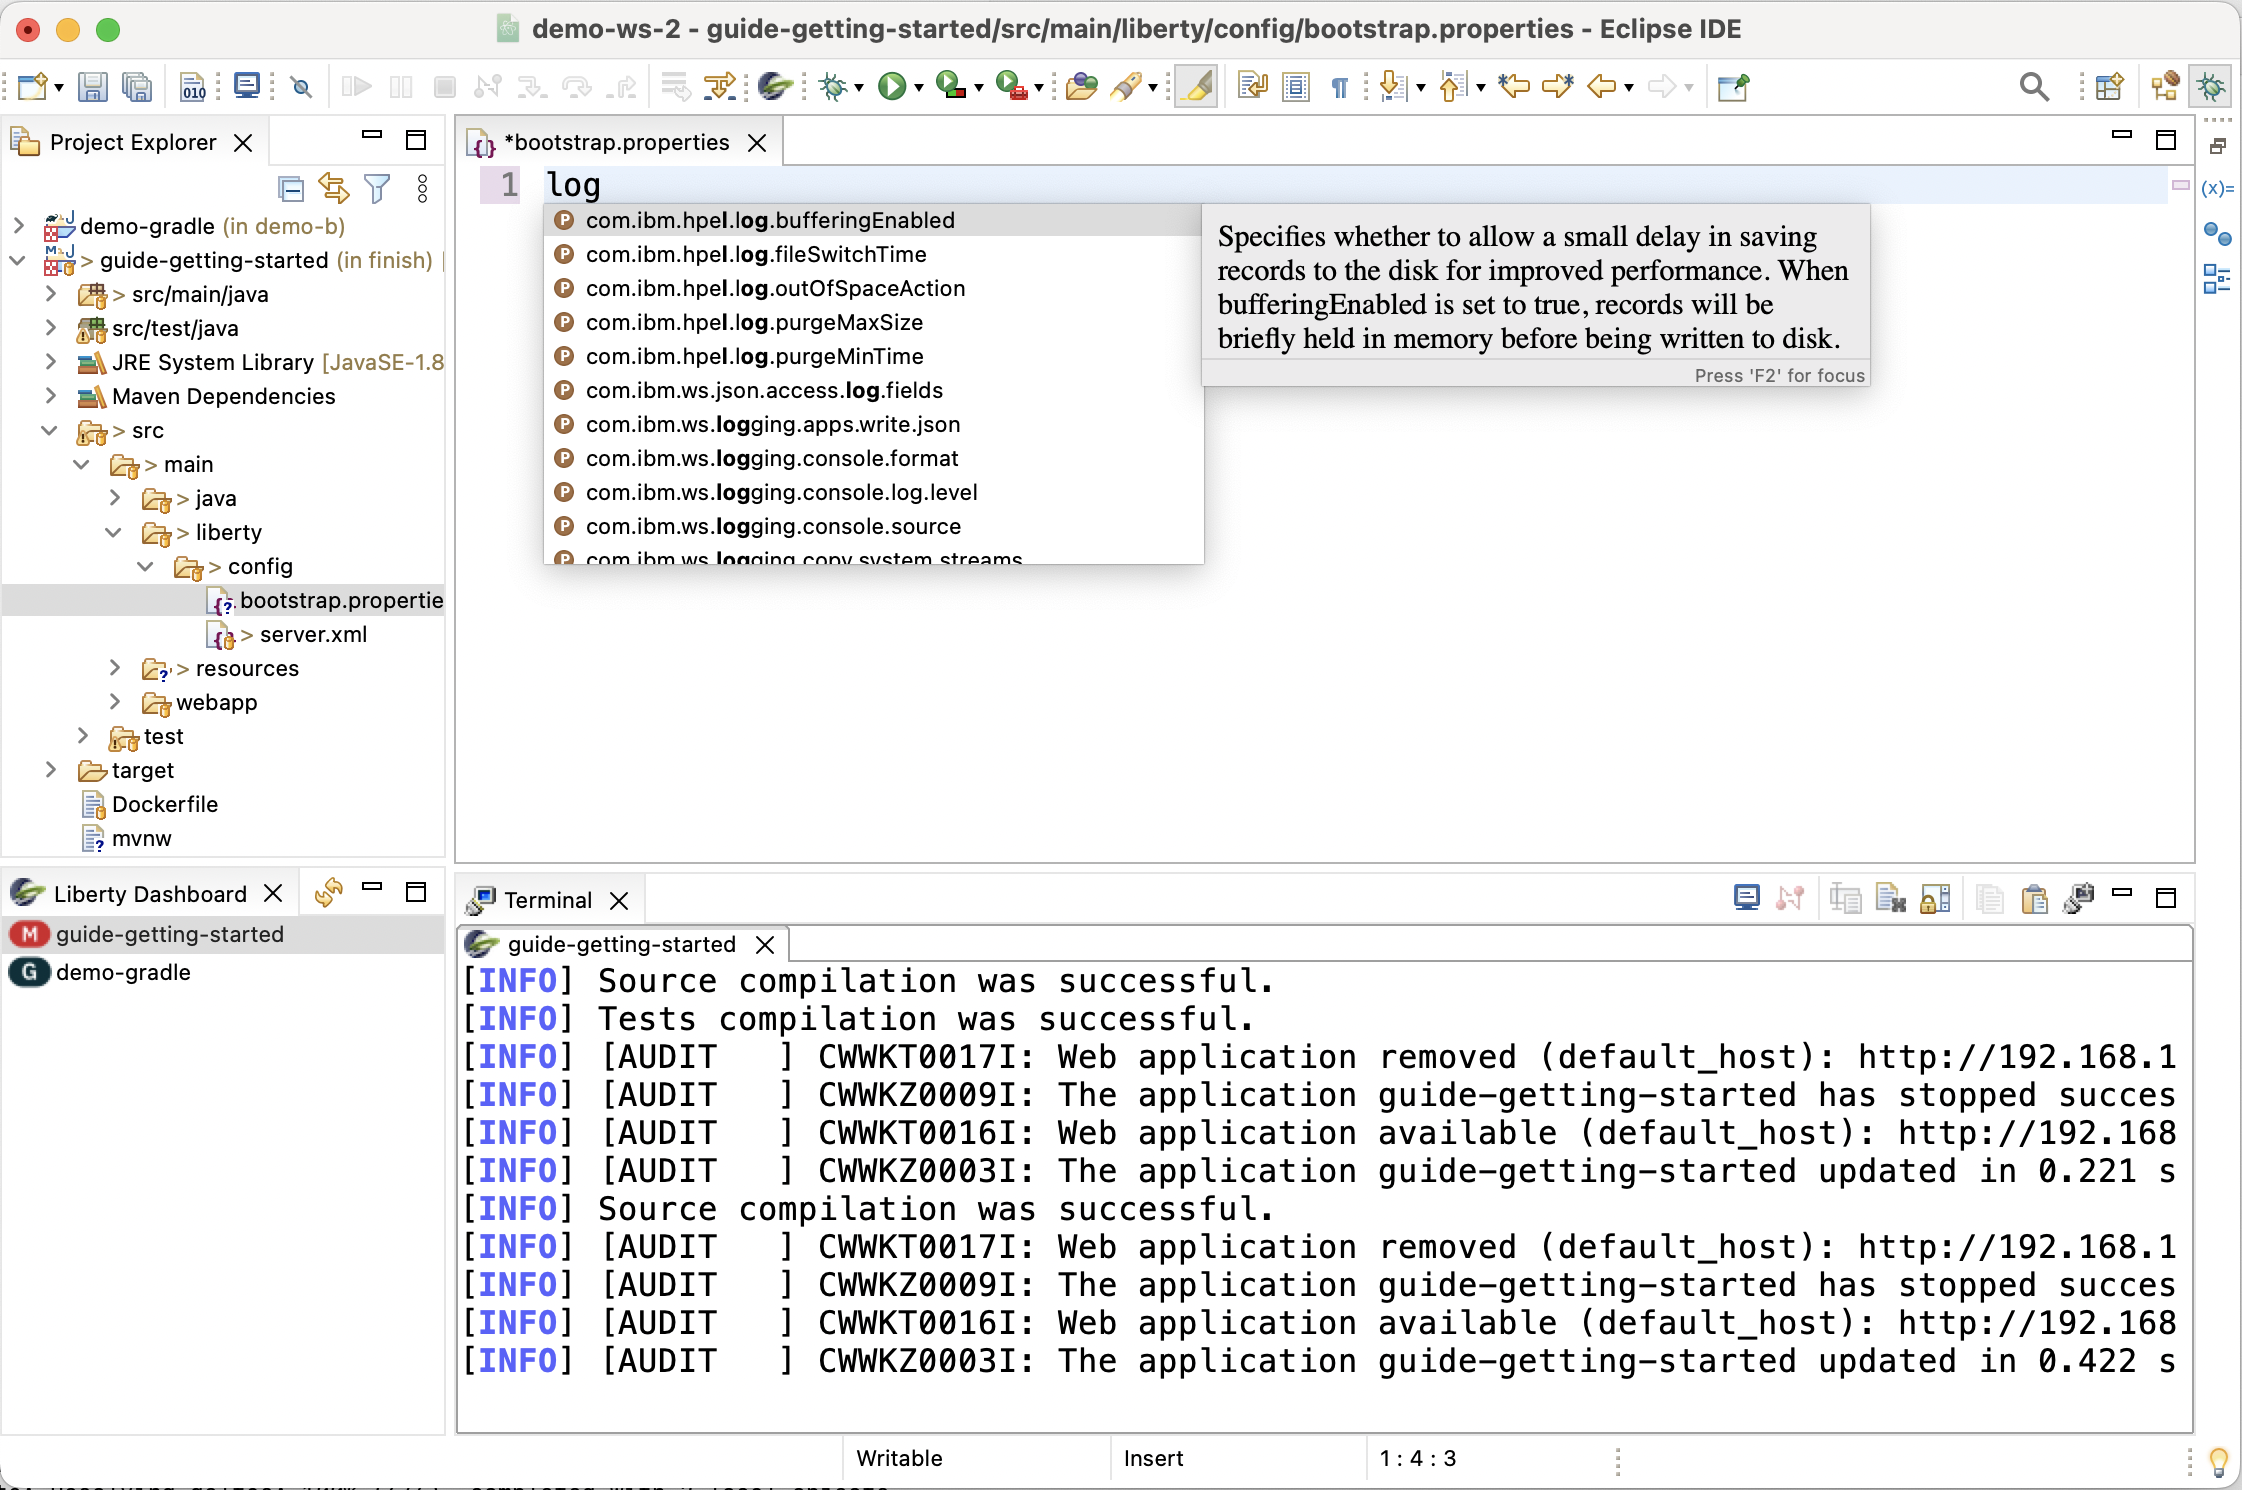
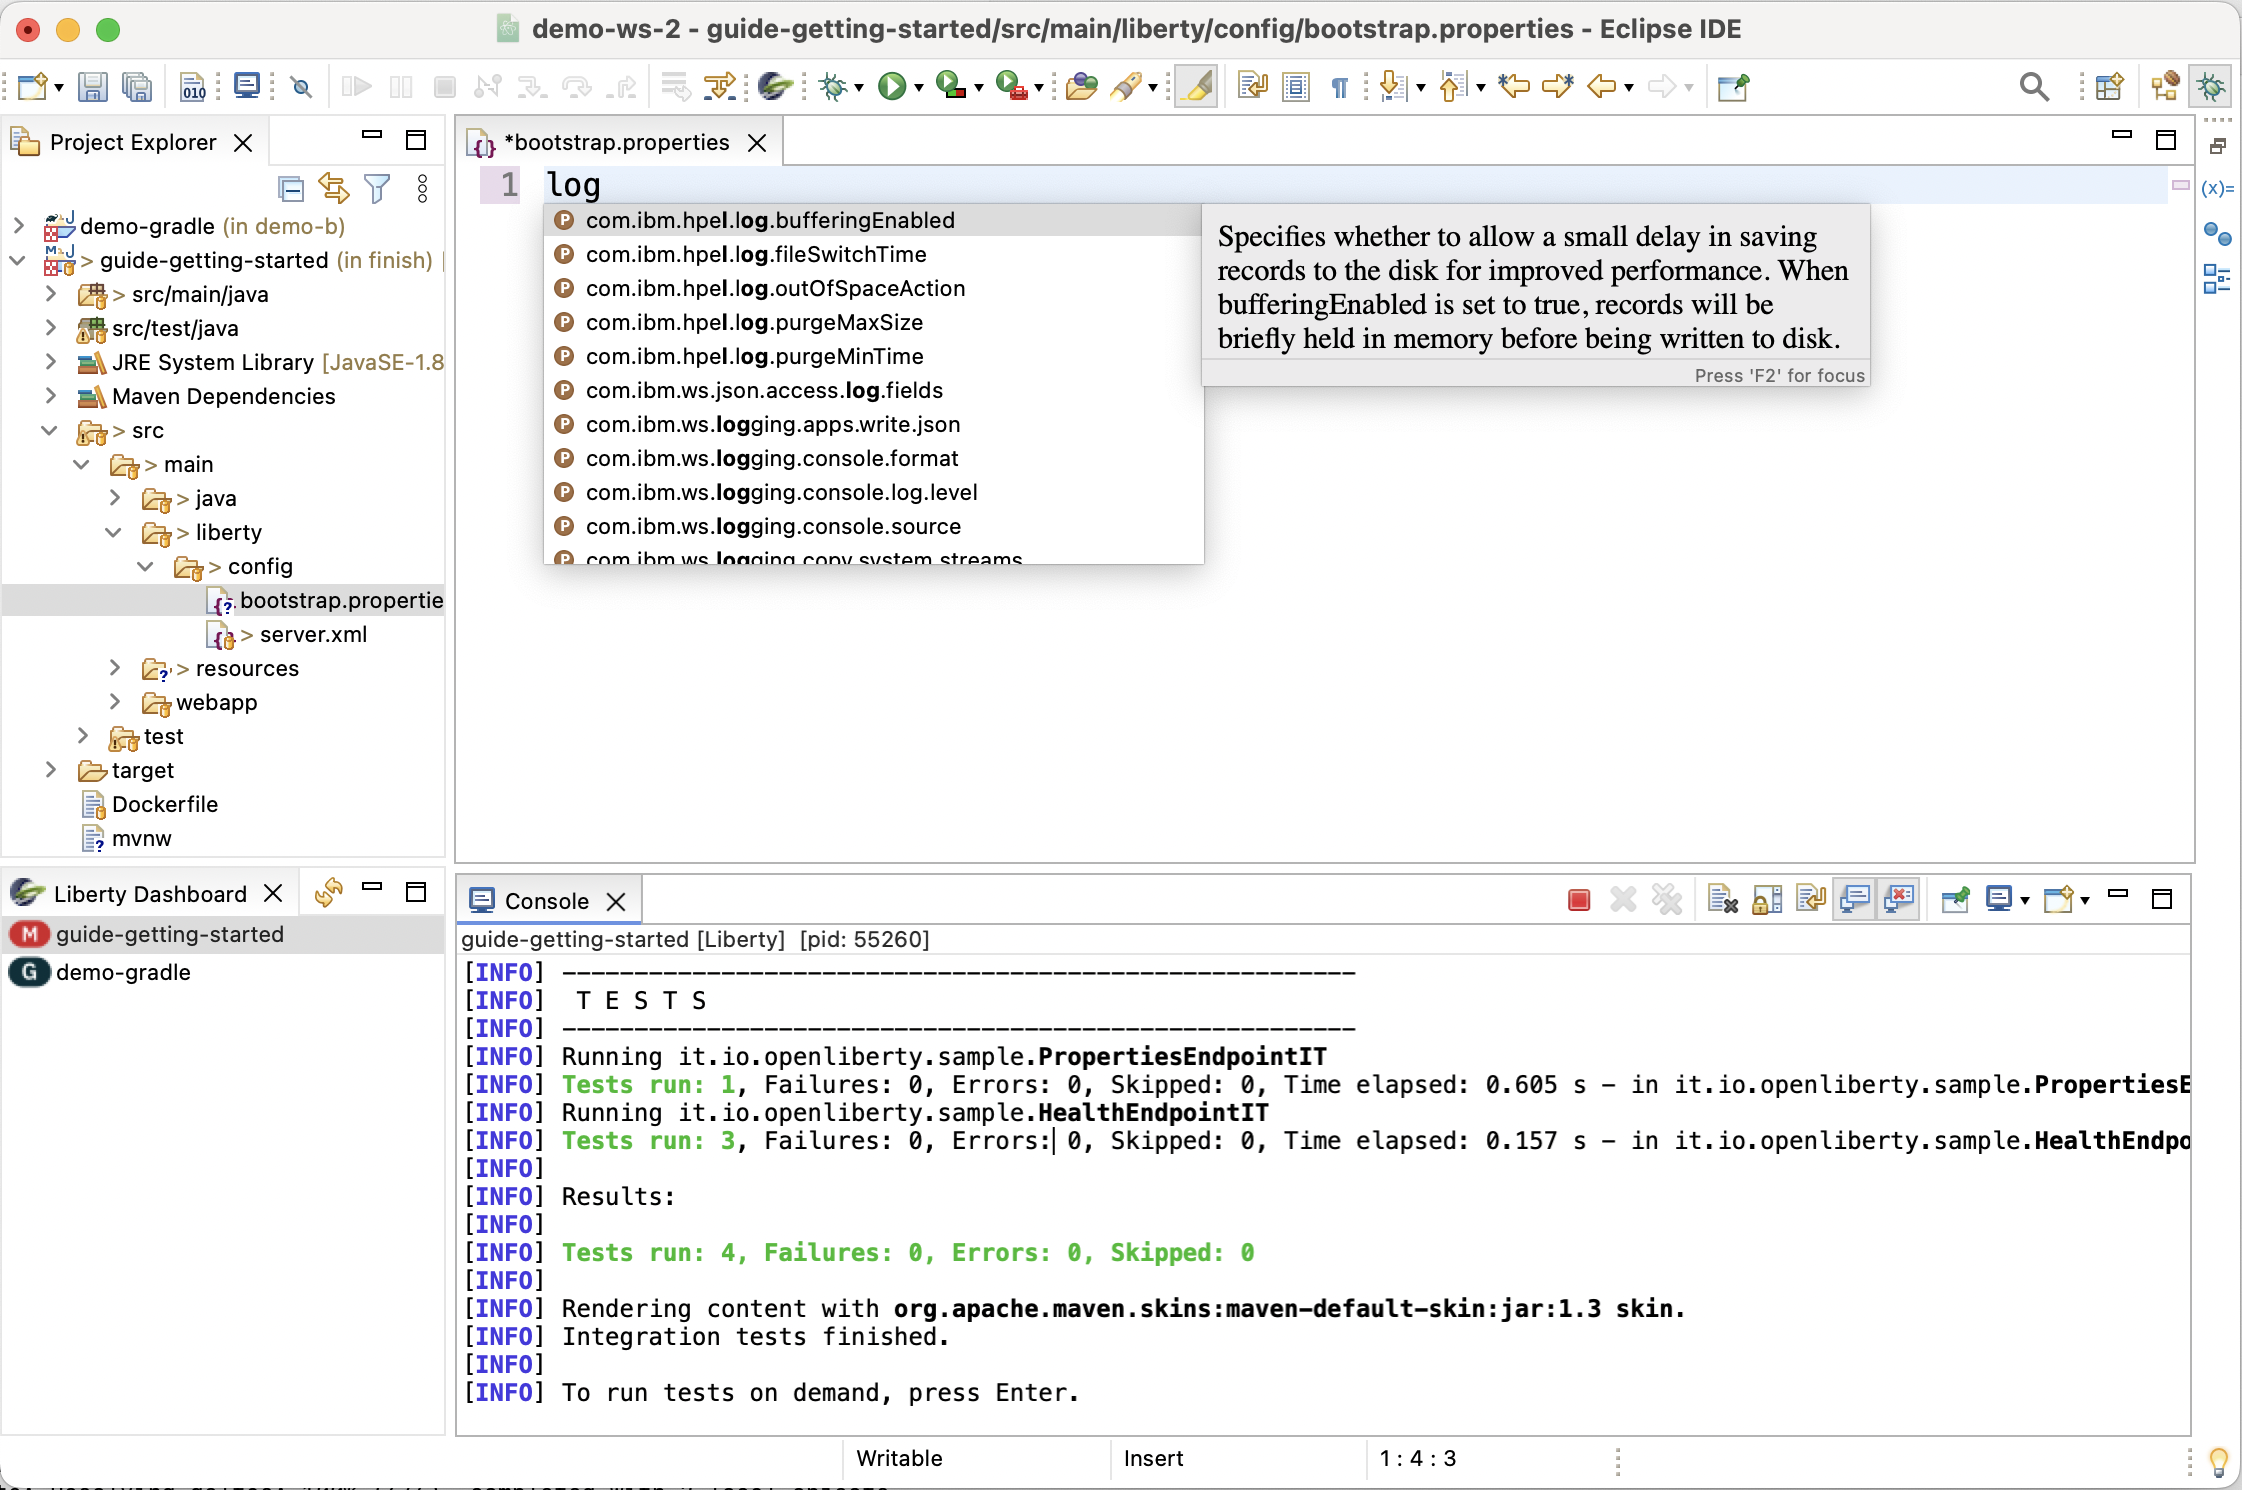
Update images to use console

Changed region(s): [[0.1873, 0.5866, 0.9991, 0.9879]]

diff --git a/docs/user-guide.md b/docs/user-guide.md
@@ -237,8 +237,6 @@ Under the `Source` tab you can also customize the source lookup locations for yo
 
 When you finish with the customizations, click the **Debug** button to launch dev mode and attach the debugger. 
 
-![Debugger Attached](images/maven-DebuggerAttachedToJVMBreakpoint.png)
-
 ## Manually adding the Liberty nature to a project
 
 You can manually classify a project as a Liberty project with the Liberty Tools for Eclipse IDE . This capability is useful in cases where the tool , due to project customizations, does not recognize a project to be a Liberty project; even though, it might be a Liberty project.
